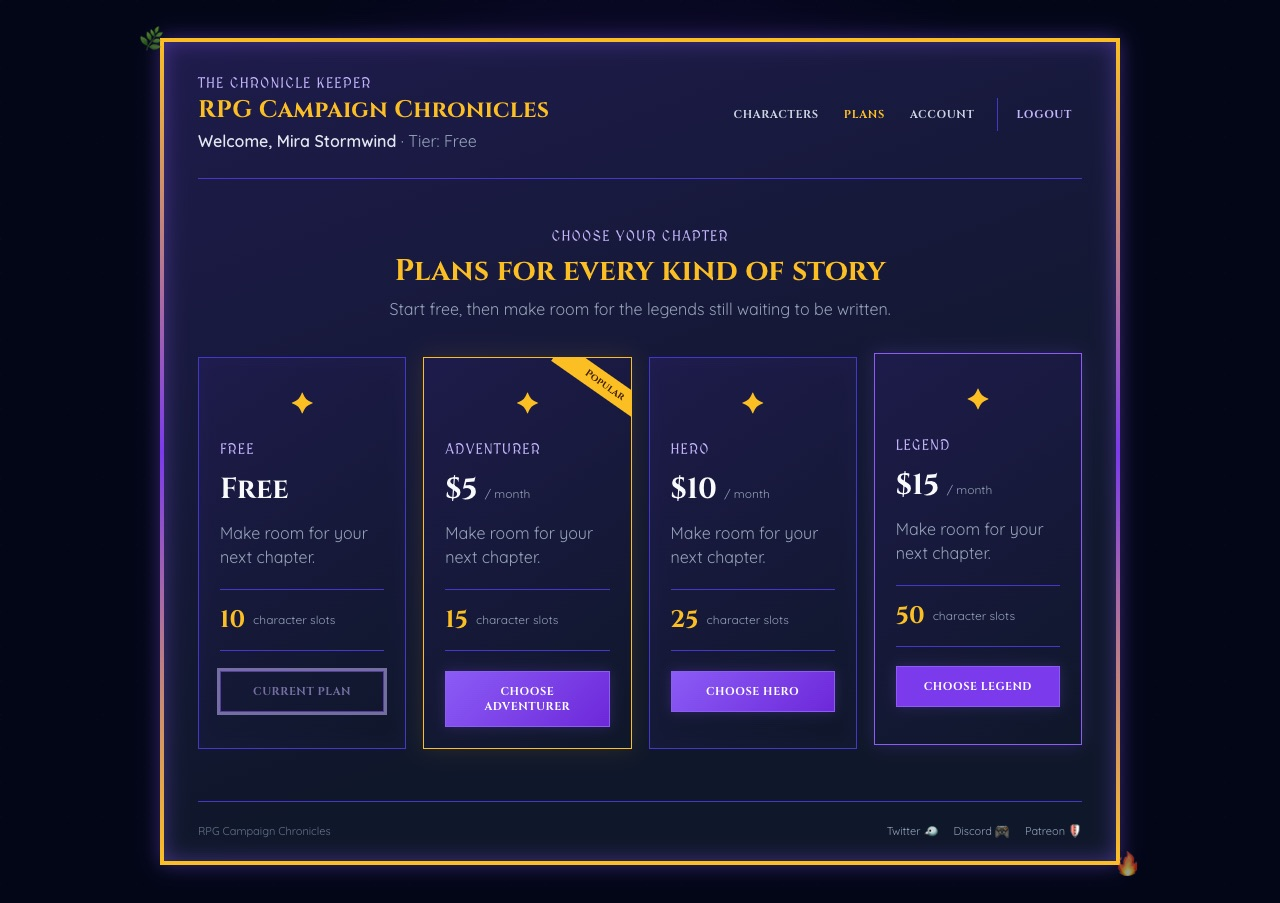
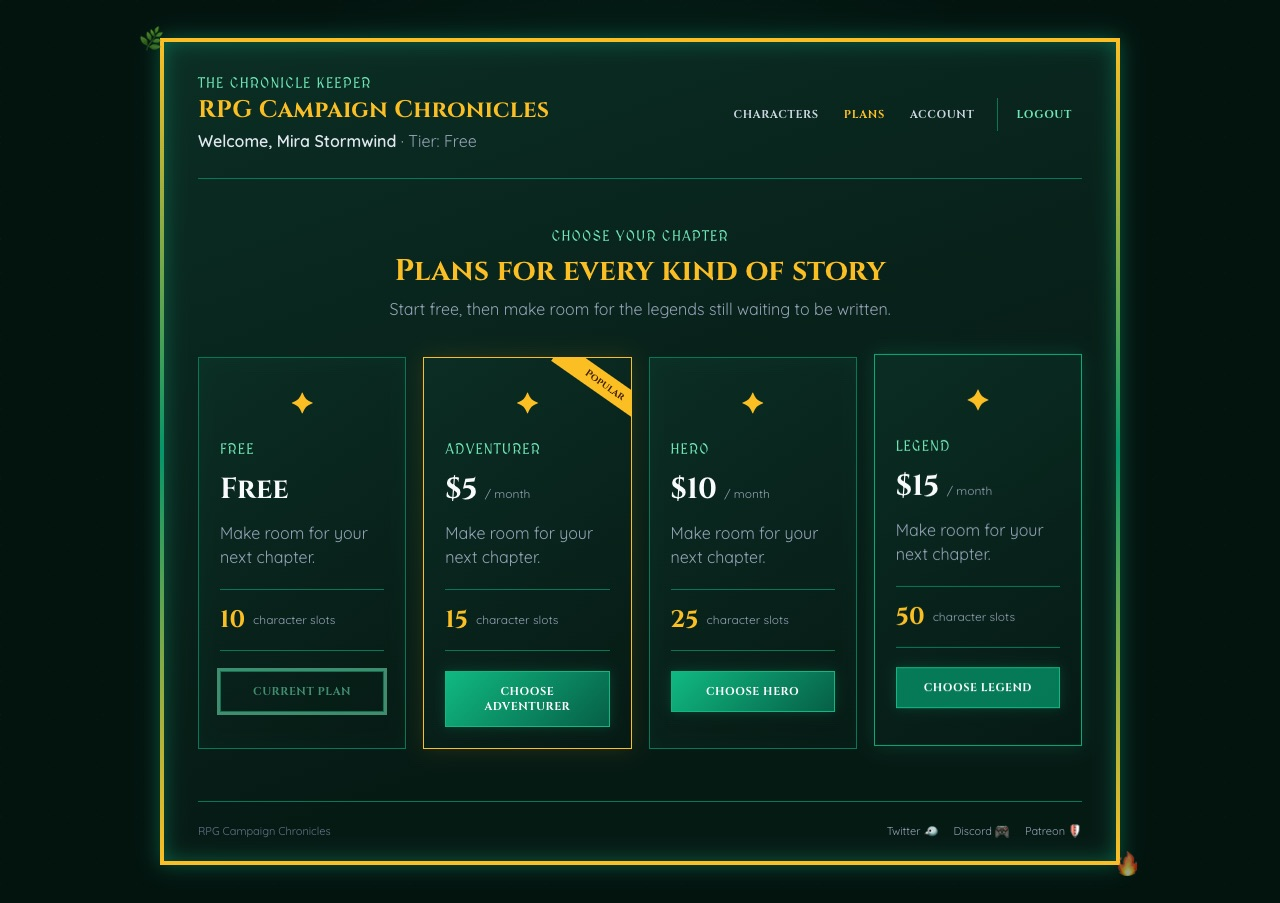
v3: emerald color theme so it's distinguishable from v1 and v2; style the attribute rows bolt left unstyled
palette swapped one-for-one in style.css (gold, reds, greys unchanged); added .inline-record/.inline-add/.record-actions.
screenshots refreshed; readme, writeup and dev-log updated.

diff --git a/week8/version3-vue-bolt/src/style.css b/week8/version3-vue-bolt/src/style.css
@@ -1,8 +1,9 @@
+/* manual change (2026-11-15): purple/indigo palette swapped for an emerald one so v3 is easy to tell apart from v1 (purple) and v2 (crimson). gold, reds and greys unchanged. */
 @import url('https://fonts.googleapis.com/css2?family=Cinzel:wght@700&family=MedievalSharp&family=Quicksand:wght@400;500;600;700&display=swap');
 @tailwind base;
 @tailwind components;
 @tailwind utilities;
-:root{font-family:'Quicksand',sans-serif;color:#f8fafc;background:#020617;font-synthesis:none;text-rendering:optimizeLegibility;-webkit-font-smoothing:antialiased;--gold:#fbbf24;--violet:#8b5cf6;--muted:#94a3b8;--card:#1e1b4b}*{box-sizing:border-box}body{margin:0;min-width:320px;min-height:100vh;background-color:#020617;background-image:linear-gradient(135deg,rgba(139,92,246,.055) 1px,transparent 1px),linear-gradient(45deg,rgba(139,92,246,.035) 1px,transparent 1px),radial-gradient(circle at 50% 30%,rgba(91,33,182,.2),transparent 46%);background-size:34px 34px,48px 48px,100% 100%;line-height:1.5}button,input,textarea{font:inherit}button{cursor:pointer}button:disabled{cursor:not-allowed;opacity:.55}.app-shell{padding:38px 16px;min-height:100vh}.frame{position:relative;max-width:960px;margin:auto;padding:0 34px;background:linear-gradient(160deg,#1e1b4b 0%,#0f172a 72%);border:4px solid transparent;border-image:linear-gradient(180deg,#fbbf24,#7c3aed,#fbbf24) 1;box-shadow:0 0 20px rgba(139,92,246,.4),inset 0 0 20px rgba(139,92,246,.4);min-height:calc(100vh - 76px)}.corner-mark{position:absolute;z-index:2;font-size:25px;opacity:.6}.corner-top{left:-25px;top:-22px}.corner-bottom{right:-24px;bottom:-22px}.site-header{display:flex;justify-content:space-between;gap:24px;padding:34px 0 25px;border-bottom:1px solid #4338ca}.site-header h1{margin:4px 0 4px;font:700 24px/1.2 Cinzel,serif;color:var(--gold);letter-spacing:.01em}.eyebrow{font:14px MedievalSharp,cursive;letter-spacing:.08em;color:#c4b5fd;text-transform:uppercase}.welcome{margin:0;color:#e2e8f0;font-weight:600}.welcome span{color:var(--muted);font-weight:400}nav{display:flex;align-items:center;gap:5px;flex-wrap:wrap;justify-content:flex-end}nav button,.back-link,.tabs button{border:0;background:transparent;color:#cbd5e1;padding:9px 10px;font:700 11px Cinzel,serif;text-transform:uppercase;letter-spacing:.06em;transition:.2s}nav button:hover,nav button.active,.tabs button.active{color:var(--gold)}nav .logout{border-left:1px solid #4338ca;margin-left:8px;padding-left:18px;color:#c4b5fd}.page{padding:40px 0 52px}.page-heading,.profile-head,.section-heading{display:flex;align-items:center;justify-content:space-between;gap:20px}.page h2,.center-heading h2,.form-page h2,.profile-head h2,.auth-card h2,.modal h2{font:700 30px/1.2 Cinzel,serif;color:var(--gold);margin:8px 0}.muted{color:var(--muted);margin:6px 0}.primary,.outline,.danger{border:1px solid var(--violet);padding:12px 16px;color:#fff;background:linear-gradient(135deg,#8b5cf6,#6d28d9);font:700 11px Cinzel,serif;letter-spacing:.05em;text-transform:uppercase;transition:.25s;box-shadow:0 0 12px rgba(139,92,246,.22)}.primary:hover{background:#7c3aed;transform:translateY(-1px)}.outline{background:transparent;color:#c4b5fd;box-shadow:none}.outline:hover{border-color:var(--gold);color:var(--gold)}.full{width:100%}.count-pill{font:700 12px Quicksand,sans-serif;border:1px solid #4338ca;padding:6px 9px;border-radius:99px;color:#c4b5fd;vertical-align:middle;white-space:nowrap}.notice{margin:18px 0 0;padding:12px 14px;background:rgba(34,197,94,.1);border:1px solid rgba(34,197,94,.35);color:#bbf7d0;font-size:13px}.notice button{float:right;border:0;background:none;color:inherit;font-size:18px}.warning{margin:24px 0;padding:14px 17px;background:rgba(251,191,36,.08);border-left:3px solid var(--gold);color:#fde68a;font-size:13px}.warning button,.text-link{border:0;background:none;color:var(--gold);font-weight:700;padding:0;text-decoration:underline}.character-grid,.plans-grid{display:grid;grid-template-columns:repeat(3,1fr);gap:17px;margin-top:28px}.character-card,.plan-card,.detail-card,.auth-card{border:1px solid #4338ca;background:linear-gradient(145deg,rgba(30,27,75,.94),rgba(15,23,42,.95));padding:21px;box-shadow:inset 0 0 20px rgba(67,56,202,.08);transition:.25s}.character-card:hover,.plan-card:hover{transform:translateY(-4px);border-color:#8b5cf6;box-shadow:0 0 18px rgba(139,92,246,.2)}.card-top{display:flex;justify-content:space-between}.level{color:#fbbf24;font:12px MedievalSharp}.card-menu{color:#8b5cf6}.avatar{width:52px;height:52px;border:1px solid #fbbf24;color:#fbbf24;display:grid;place-items:center;font:700 22px Cinzel,serif;border-radius:50%;margin:22px auto 14px;background:radial-gradient(circle,rgba(139,92,246,.25),transparent 70%)}.avatar.large{width:76px;height:76px;margin:0}.character-card h3{text-align:center;color:#f8fafc;font:700 17px Cinzel;margin:0}.species{text-align:center;color:#c4b5fd;font-size:13px}.species span{color:#64748b;padding:0 4px}.health-row{display:flex;justify-content:space-between;margin-top:20px;color:var(--muted);font-size:11px;text-transform:uppercase}.health-row strong{color:#f8fafc}.health-row small{color:var(--muted);font-weight:400}.health-track,.usage-track,.xp-track{height:5px;background:#0f172a;margin:8px 0 19px}.health-track i,.usage-track i,.xp-track i{display:block;height:100%;background:linear-gradient(90deg,#8b5cf6,#fbbf24);box-shadow:0 0 8px #8b5cf6}.card-actions{display:flex;gap:8px;border-top:1px solid rgba(67,56,202,.5);padding-top:15px}.card-actions button{border:0;background:none;color:#c4b5fd;font-size:11px;font-weight:700;padding:0}.card-actions button:hover{color:#fbbf24}.danger-text{color:#f87171!important}.center-heading{text-align:center;max-width:560px;margin:10px auto 36px}.plans-grid{grid-template-columns:repeat(4,1fr);margin-top:0}.plan-card{position:relative;overflow:hidden}.plan-card.featured{border-color:var(--gold);box-shadow:0 0 22px rgba(251,191,36,.12)}.ribbon{position:absolute;top:16px;right:-32px;transform:rotate(35deg);background:var(--gold);color:#422006;padding:4px 35px;font:700 10px Cinzel}.plan-glyph{text-align:center;color:var(--gold);font-size:29px;margin:2px 0 18px}.plan-card h3{font:700 29px Cinzel;margin:12px 0;color:#f8fafc}.plan-card h3 small{font:12px Quicksand;color:var(--muted);font-weight:400}.plan-limit{border-top:1px solid #4338ca;border-bottom:1px solid #4338ca;padding:14px 0;margin:20px 0;display:flex;align-items:center;gap:8px}.plan-limit strong{font:700 24px Cinzel;color:var(--gold)}.plan-limit span{color:var(--muted);font-size:12px}.auth-layout{min-height:calc(100vh - 160px);display:grid;grid-template-columns:1.15fr .85fr;align-items:center;gap:45px;padding:45px 0}.auth-art{padding:30px 0}.sigil{color:var(--gold);font-size:75px;text-shadow:0 0 26px rgba(251,191,36,.6);line-height:1}.auth-art h2{font:700 50px/1.1 Cinzel;margin:17px 0;color:#f8fafc}.auth-art h2 em{font-style:normal;color:var(--gold)}.auth-art>p:not(.eyebrow){color:var(--muted);max-width:350px}.constellation{color:#8b5cf6;letter-spacing:12px;margin-top:40px}.auth-card h2{font-size:26px}.auth-card{padding:29px}.auth-card label,.character-form label{display:block;color:#cbd5e1;font-size:12px;font-weight:700;margin:18px 0}.auth-card input,.character-form input,.character-form textarea,.attribute-row input{display:block;width:100%;margin-top:7px;background:#0f172a;border:1px solid #4338ca;color:#f8fafc;padding:12px 13px;outline:0}.auth-card input:focus,.character-form input:focus,.character-form textarea:focus{border-color:#a78bfa;box-shadow:0 0 0 2px rgba(139,92,246,.12)}.switch{text-align:center;color:var(--muted);font-size:12px}.switch button{border:0;background:none;color:var(--gold);font-weight:700}.form-page{max-width:730px;margin:auto}.back-link{padding-left:0;color:#a78bfa}.character-form{margin-top:30px}.form-section{border-top:1px solid #4338ca;padding:22px 0}.form-section h3,.detail-card h3,.wide-detail>h3{color:#f8fafc;font:700 16px Cinzel;margin:0 0 15px}.form-grid{display:grid;grid-template-columns:repeat(2,1fr);gap:0 18px}.form-grid .wide{grid-column:1/-1}.character-form textarea{resize:vertical}.attribute-row{display:grid;grid-template-columns:1fr 1fr 36px;gap:9px;margin:9px 0}.attribute-row input{margin:0}.attribute-row button,.icon-button{background:none;border:0;color:#f87171;font-size:20px}.attribute-actions{display:flex;gap:10px;margin-top:12px}.small-button{background:transparent;border:1px solid #4338ca;color:#c4b5fd;padding:8px 10px;font-size:11px}.gold-button{color:var(--gold);border-color:#a16207}.profile-head{justify-content:flex-start;padding-bottom:25px}.profile-head>div:nth-child(2){flex:1}.profile-head h2{margin:3px 0}.profile-head .species{text-align:left;margin:0}.tabs{display:flex;gap:19px;border-bottom:1px solid #4338ca}.tabs button{padding:14px 3px;position:relative}.tabs button.active:after{content:'';position:absolute;height:2px;background:var(--gold);bottom:-1px;left:0;right:0}.tabs span{font-size:10px;background:#312e81;border-radius:50%;padding:3px 6px;margin-left:3px}.detail-grid,.account-grid{display:grid;grid-template-columns:repeat(2,1fr);gap:17px;margin-top:24px}.detail-card p{color:#cbd5e1;font-size:14px}.stat-line{display:flex;justify-content:space-between;padding:9px 0;border-bottom:1px solid rgba(67,56,202,.45);font-size:13px}.stat-line strong{color:var(--gold)}.detail-card .text-link{margin-top:15px}.stat-highlight>strong{font:700 25px Cinzel;color:#f8fafc;display:block;margin:17px 0 22px}.xp-track{margin:0 0 9px}.detail-card small{color:var(--muted)}.wide-detail{padding:23px;margin-top:24px;border:1px solid #4338ca}.section-heading h3{margin:6px 0 0}.item-row{display:flex;align-items:center;gap:14px;border-top:1px solid rgba(67,56,202,.5);padding:16px 0}.item-icon{color:var(--gold);font-size:20px}.item-row div:nth-child(2){flex:1}.item-row strong,.item-row small{display:block}.item-row small{color:var(--muted);margin-top:3px;font-size:12px}.quantity{color:var(--gold)}.journal-entry{display:grid;grid-template-columns:70px 1fr;gap:20px;border-top:1px solid rgba(67,56,202,.5);padding:22px 0}.journal-date{border-right:1px solid #4338ca;color:var(--gold)}.journal-date strong{font:700 27px Cinzel;display:block}.journal-date span{color:var(--muted);font-size:11px}.journal-entry h3{margin:5px 0}.journal-entry p{color:#cbd5e1;font-size:13px}.journal-meta{display:flex;gap:15px;color:var(--muted);font-size:11px}.plan-summary h3{color:var(--gold);font-size:24px}.usage-card{grid-column:1/-1}.usage-card .section-heading strong{color:#c4b5fd;font-size:13px}.usage-track{height:9px;margin:23px 0 12px}.empty{text-align:center;padding:70px 20px;border:1px dashed #4338ca;margin-top:28px}.empty-glyph{color:var(--gold);font-size:35px}.empty h3{font:700 19px Cinzel;color:#f8fafc}footer{border-top:1px solid #4338ca;padding:21px 0;color:#64748b;font-size:11px;display:flex;justify-content:space-between}footer a{color:#94a3b8;margin-left:16px;text-decoration:none}.modal-backdrop{position:fixed;inset:0;background:rgba(2,6,23,.82);display:grid;place-items:center;padding:20px;z-index:5}.modal{position:relative;max-width:410px;width:100%;background:linear-gradient(145deg,#1e1b4b,#0f172a);border:1px solid #8b5cf6;box-shadow:0 0 35px rgba(139,92,246,.35);padding:32px;text-align:center}.modal h2{font-size:23px}.modal-close{position:absolute;right:13px;top:9px;background:none;border:0;color:#94a3b8;font-size:22px}.modal .plan-glyph{margin:0 0 10px}.modal p{color:#fde68a;font-size:14px}.modal .muted{color:var(--muted)}.modal-actions{display:flex;gap:10px;margin-top:22px}.modal-actions>*{flex:1}.danger{background:transparent;border-color:#ef4444;color:#fca5a5}.danger-icon{margin:auto;border:1px solid #ef4444;color:#f87171;width:35px;height:35px;border-radius:50%;display:grid;place-items:center;font:bold 20px Cinzel}.modal-form{text-align:left;max-height:90vh;overflow-y:auto}.modal-form label{display:block;color:#cbd5e1;font-size:12px;font-weight:700;margin:14px 0}.modal-form input,.modal-form textarea,.account-input{display:block;width:100%;margin-top:7px;background:#0f172a;border:1px solid #4338ca;color:#f8fafc;padding:12px 13px;outline:0}.account-input{margin:12px 0}.account-actions{display:flex;gap:10px;align-items:center;margin-top:15px}.saved-message{color:#bbf7d0;font-size:12px}.config-screen{text-align:center;max-width:520px;margin:0 auto;padding:150px 0}.config-screen h1{font:700 28px Cinzel;color:var(--gold);margin:15px 0}.config-screen p{color:var(--muted);line-height:1.8}.config-screen strong{color:#f8fafc}.nav-link,nav a{color:#cbd5e1;text-decoration:none;padding:9px 10px;font:700 11px Cinzel,serif;text-transform:uppercase;letter-spacing:.06em;transition:.2s}nav a:hover,nav a.active{color:var(--gold)}.card-actions a{border:0;background:none;color:#c4b5fd;font-size:11px;font-weight:700;padding:0;text-decoration:none}.card-actions a:hover{color:var(--gold)}.form-error,.field-error{color:#fca5a5;font-size:12px;margin:10px 0}.field-error{display:block;margin-top:5px}.disabled{pointer-events:none;opacity:.55}.config-screen .sigil{margin:auto}
+:root{font-family:'Quicksand',sans-serif;color:#f8fafc;background:#03140f;font-synthesis:none;text-rendering:optimizeLegibility;-webkit-font-smoothing:antialiased;--gold:#fbbf24;--emerald:#10b981;--muted:#94a3b8;--card:#0b2e24}*{box-sizing:border-box}body{margin:0;min-width:320px;min-height:100vh;background-color:#03140f;background-image:linear-gradient(135deg,rgba(16,185,129,.055) 1px,transparent 1px),linear-gradient(45deg,rgba(16,185,129,.035) 1px,transparent 1px),radial-gradient(circle at 50% 30%,rgba(6,95,70,.2),transparent 46%);background-size:34px 34px,48px 48px,100% 100%;line-height:1.5}button,input,textarea{font:inherit}button{cursor:pointer}button:disabled{cursor:not-allowed;opacity:.55}.app-shell{padding:38px 16px;min-height:100vh}.frame{position:relative;max-width:960px;margin:auto;padding:0 34px;background:linear-gradient(160deg,#0b2e24 0%,#061a14 72%);border:4px solid transparent;border-image:linear-gradient(180deg,#fbbf24,#059669,#fbbf24) 1;box-shadow:0 0 20px rgba(16,185,129,.4),inset 0 0 20px rgba(16,185,129,.4);min-height:calc(100vh - 76px)}.corner-mark{position:absolute;z-index:2;font-size:25px;opacity:.6}.corner-top{left:-25px;top:-22px}.corner-bottom{right:-24px;bottom:-22px}.site-header{display:flex;justify-content:space-between;gap:24px;padding:34px 0 25px;border-bottom:1px solid #047857}.site-header h1{margin:4px 0 4px;font:700 24px/1.2 Cinzel,serif;color:var(--gold);letter-spacing:.01em}.eyebrow{font:14px MedievalSharp,cursive;letter-spacing:.08em;color:#6ee7b7;text-transform:uppercase}.welcome{margin:0;color:#e2e8f0;font-weight:600}.welcome span{color:var(--muted);font-weight:400}nav{display:flex;align-items:center;gap:5px;flex-wrap:wrap;justify-content:flex-end}nav button,.back-link,.tabs button{border:0;background:transparent;color:#cbd5e1;padding:9px 10px;font:700 11px Cinzel,serif;text-transform:uppercase;letter-spacing:.06em;transition:.2s}nav button:hover,nav button.active,.tabs button.active{color:var(--gold)}nav .logout{border-left:1px solid #047857;margin-left:8px;padding-left:18px;color:#6ee7b7}.page{padding:40px 0 52px}.page-heading,.profile-head,.section-heading{display:flex;align-items:center;justify-content:space-between;gap:20px}.page h2,.center-heading h2,.form-page h2,.profile-head h2,.auth-card h2,.modal h2{font:700 30px/1.2 Cinzel,serif;color:var(--gold);margin:8px 0}.muted{color:var(--muted);margin:6px 0}.primary,.outline,.danger{border:1px solid var(--emerald);padding:12px 16px;color:#fff;background:linear-gradient(135deg,#10b981,#065f46);font:700 11px Cinzel,serif;letter-spacing:.05em;text-transform:uppercase;transition:.25s;box-shadow:0 0 12px rgba(16,185,129,.22)}.primary:hover{background:#059669;transform:translateY(-1px)}.outline{background:transparent;color:#6ee7b7;box-shadow:none}.outline:hover{border-color:var(--gold);color:var(--gold)}.full{width:100%}.count-pill{font:700 12px Quicksand,sans-serif;border:1px solid #047857;padding:6px 9px;border-radius:99px;color:#6ee7b7;vertical-align:middle;white-space:nowrap}.notice{margin:18px 0 0;padding:12px 14px;background:rgba(34,197,94,.1);border:1px solid rgba(34,197,94,.35);color:#bbf7d0;font-size:13px}.notice button{float:right;border:0;background:none;color:inherit;font-size:18px}.warning{margin:24px 0;padding:14px 17px;background:rgba(251,191,36,.08);border-left:3px solid var(--gold);color:#fde68a;font-size:13px}.warning button,.text-link{border:0;background:none;color:var(--gold);font-weight:700;padding:0;text-decoration:underline}.character-grid,.plans-grid{display:grid;grid-template-columns:repeat(3,1fr);gap:17px;margin-top:28px}.character-card,.plan-card,.detail-card,.auth-card{border:1px solid #047857;background:linear-gradient(145deg,rgba(11,46,36,.94),rgba(6,26,20,.95));padding:21px;box-shadow:inset 0 0 20px rgba(4,120,87,.08);transition:.25s}.character-card:hover,.plan-card:hover{transform:translateY(-4px);border-color:#10b981;box-shadow:0 0 18px rgba(16,185,129,.2)}.card-top{display:flex;justify-content:space-between}.level{color:#fbbf24;font:12px MedievalSharp}.card-menu{color:#10b981}.avatar{width:52px;height:52px;border:1px solid #fbbf24;color:#fbbf24;display:grid;place-items:center;font:700 22px Cinzel,serif;border-radius:50%;margin:22px auto 14px;background:radial-gradient(circle,rgba(16,185,129,.25),transparent 70%)}.avatar.large{width:76px;height:76px;margin:0}.character-card h3{text-align:center;color:#f8fafc;font:700 17px Cinzel;margin:0}.species{text-align:center;color:#6ee7b7;font-size:13px}.species span{color:#64748b;padding:0 4px}.health-row{display:flex;justify-content:space-between;margin-top:20px;color:var(--muted);font-size:11px;text-transform:uppercase}.health-row strong{color:#f8fafc}.health-row small{color:var(--muted);font-weight:400}.health-track,.usage-track,.xp-track{height:5px;background:#061a14;margin:8px 0 19px}.health-track i,.usage-track i,.xp-track i{display:block;height:100%;background:linear-gradient(90deg,#10b981,#fbbf24);box-shadow:0 0 8px #10b981}.card-actions{display:flex;gap:8px;border-top:1px solid rgba(4,120,87,.5);padding-top:15px}.card-actions button{border:0;background:none;color:#6ee7b7;font-size:11px;font-weight:700;padding:0}.card-actions button:hover{color:#fbbf24}.danger-text{color:#f87171!important}.center-heading{text-align:center;max-width:560px;margin:10px auto 36px}.plans-grid{grid-template-columns:repeat(4,1fr);margin-top:0}.plan-card{position:relative;overflow:hidden}.plan-card.featured{border-color:var(--gold);box-shadow:0 0 22px rgba(251,191,36,.12)}.ribbon{position:absolute;top:16px;right:-32px;transform:rotate(35deg);background:var(--gold);color:#422006;padding:4px 35px;font:700 10px Cinzel}.plan-glyph{text-align:center;color:var(--gold);font-size:29px;margin:2px 0 18px}.plan-card h3{font:700 29px Cinzel;margin:12px 0;color:#f8fafc}.plan-card h3 small{font:12px Quicksand;color:var(--muted);font-weight:400}.plan-limit{border-top:1px solid #047857;border-bottom:1px solid #047857;padding:14px 0;margin:20px 0;display:flex;align-items:center;gap:8px}.plan-limit strong{font:700 24px Cinzel;color:var(--gold)}.plan-limit span{color:var(--muted);font-size:12px}.auth-layout{min-height:calc(100vh - 160px);display:grid;grid-template-columns:1.15fr .85fr;align-items:center;gap:45px;padding:45px 0}.auth-art{padding:30px 0}.sigil{color:var(--gold);font-size:75px;text-shadow:0 0 26px rgba(251,191,36,.6);line-height:1}.auth-art h2{font:700 50px/1.1 Cinzel;margin:17px 0;color:#f8fafc}.auth-art h2 em{font-style:normal;color:var(--gold)}.auth-art>p:not(.eyebrow){color:var(--muted);max-width:350px}.constellation{color:#10b981;letter-spacing:12px;margin-top:40px}.auth-card h2{font-size:26px}.auth-card{padding:29px}.auth-card label,.character-form label{display:block;color:#cbd5e1;font-size:12px;font-weight:700;margin:18px 0}.auth-card input,.character-form input,.character-form textarea,.attribute-row input{display:block;width:100%;margin-top:7px;background:#061a14;border:1px solid #047857;color:#f8fafc;padding:12px 13px;outline:0}.auth-card input:focus,.character-form input:focus,.character-form textarea:focus{border-color:#34d399;box-shadow:0 0 0 2px rgba(16,185,129,.12)}.switch{text-align:center;color:var(--muted);font-size:12px}.switch button{border:0;background:none;color:var(--gold);font-weight:700}.form-page{max-width:730px;margin:auto}.back-link{padding-left:0;color:#34d399}.character-form{margin-top:30px}.form-section{border-top:1px solid #047857;padding:22px 0}.form-section h3,.detail-card h3,.wide-detail>h3{color:#f8fafc;font:700 16px Cinzel;margin:0 0 15px}.form-grid{display:grid;grid-template-columns:repeat(2,1fr);gap:0 18px}.form-grid .wide{grid-column:1/-1}.character-form textarea{resize:vertical}.attribute-row{display:grid;grid-template-columns:1fr 1fr 36px;gap:9px;margin:9px 0}.attribute-row input{margin:0}.attribute-row button,.icon-button{background:none;border:0;color:#f87171;font-size:20px}.attribute-actions{display:flex;gap:10px;margin-top:12px}.small-button{background:transparent;border:1px solid #047857;color:#6ee7b7;padding:8px 10px;font-size:11px}.gold-button{color:var(--gold);border-color:#a16207}.profile-head{justify-content:flex-start;padding-bottom:25px}.profile-head>div:nth-child(2){flex:1}.profile-head h2{margin:3px 0}.profile-head .species{text-align:left;margin:0}.tabs{display:flex;gap:19px;border-bottom:1px solid #047857}.tabs button{padding:14px 3px;position:relative}.tabs button.active:after{content:'';position:absolute;height:2px;background:var(--gold);bottom:-1px;left:0;right:0}.tabs span{font-size:10px;background:#064e3b;border-radius:50%;padding:3px 6px;margin-left:3px}.detail-grid,.account-grid{display:grid;grid-template-columns:repeat(2,1fr);gap:17px;margin-top:24px}.detail-card p{color:#cbd5e1;font-size:14px}.stat-line{display:flex;justify-content:space-between;padding:9px 0;border-bottom:1px solid rgba(4,120,87,.45);font-size:13px}.stat-line strong{color:var(--gold)}.detail-card .text-link{margin-top:15px}.stat-highlight>strong{font:700 25px Cinzel;color:#f8fafc;display:block;margin:17px 0 22px}.xp-track{margin:0 0 9px}.detail-card small{color:var(--muted)}.wide-detail{padding:23px;margin-top:24px;border:1px solid #047857}.section-heading h3{margin:6px 0 0}.item-row{display:flex;align-items:center;gap:14px;border-top:1px solid rgba(4,120,87,.5);padding:16px 0}.item-icon{color:var(--gold);font-size:20px}.item-row div:nth-child(2){flex:1}.item-row strong,.item-row small{display:block}.item-row small{color:var(--muted);margin-top:3px;font-size:12px}.quantity{color:var(--gold)}.journal-entry{display:grid;grid-template-columns:70px 1fr;gap:20px;border-top:1px solid rgba(4,120,87,.5);padding:22px 0}.journal-date{border-right:1px solid #047857;color:var(--gold)}.journal-date strong{font:700 27px Cinzel;display:block}.journal-date span{color:var(--muted);font-size:11px}.journal-entry h3{margin:5px 0}.journal-entry p{color:#cbd5e1;font-size:13px}.journal-meta{display:flex;gap:15px;color:var(--muted);font-size:11px}.plan-summary h3{color:var(--gold);font-size:24px}.usage-card{grid-column:1/-1}.usage-card .section-heading strong{color:#6ee7b7;font-size:13px}.usage-track{height:9px;margin:23px 0 12px}.empty{text-align:center;padding:70px 20px;border:1px dashed #047857;margin-top:28px}.empty-glyph{color:var(--gold);font-size:35px}.empty h3{font:700 19px Cinzel;color:#f8fafc}footer{border-top:1px solid #047857;padding:21px 0;color:#64748b;font-size:11px;display:flex;justify-content:space-between}footer a{color:#94a3b8;margin-left:16px;text-decoration:none}.modal-backdrop{position:fixed;inset:0;background:rgba(1,10,7,.82);display:grid;place-items:center;padding:20px;z-index:5}.modal{position:relative;max-width:410px;width:100%;background:linear-gradient(145deg,#0b2e24,#061a14);border:1px solid #10b981;box-shadow:0 0 35px rgba(16,185,129,.35);padding:32px;text-align:center}.modal h2{font-size:23px}.modal-close{position:absolute;right:13px;top:9px;background:none;border:0;color:#94a3b8;font-size:22px}.modal .plan-glyph{margin:0 0 10px}.modal p{color:#fde68a;font-size:14px}.modal .muted{color:var(--muted)}.modal-actions{display:flex;gap:10px;margin-top:22px}.modal-actions>*{flex:1}.danger{background:transparent;border-color:#ef4444;color:#fca5a5}.danger-icon{margin:auto;border:1px solid #ef4444;color:#f87171;width:35px;height:35px;border-radius:50%;display:grid;place-items:center;font:bold 20px Cinzel}.modal-form{text-align:left;max-height:90vh;overflow-y:auto}.modal-form label{display:block;color:#cbd5e1;font-size:12px;font-weight:700;margin:14px 0}.modal-form input,.modal-form textarea,.account-input{display:block;width:100%;margin-top:7px;background:#061a14;border:1px solid #047857;color:#f8fafc;padding:12px 13px;outline:0}.account-input{margin:12px 0}.account-actions{display:flex;gap:10px;align-items:center;margin-top:15px}.saved-message{color:#bbf7d0;font-size:12px}.config-screen{text-align:center;max-width:520px;margin:0 auto;padding:150px 0}.config-screen h1{font:700 28px Cinzel;color:var(--gold);margin:15px 0}.config-screen p{color:var(--muted);line-height:1.8}.config-screen strong{color:#f8fafc}.nav-link,nav a{color:#cbd5e1;text-decoration:none;padding:9px 10px;font:700 11px Cinzel,serif;text-transform:uppercase;letter-spacing:.06em;transition:.2s}nav a:hover,nav a.active{color:var(--gold)}.card-actions a{border:0;background:none;color:#6ee7b7;font-size:11px;font-weight:700;padding:0;text-decoration:none}.card-actions a:hover{color:var(--gold)}.form-error,.field-error{color:#fca5a5;font-size:12px;margin:10px 0}.field-error{display:block;margin-top:5px}.disabled{pointer-events:none;opacity:.55}.config-screen .sigil{margin:auto}
 @media(max-width:760px){.app-shell{padding:16px 8px}.frame{padding:0 18px;min-height:calc(100vh - 32px)}.site-header{display:block}.site-header h1{font-size:20px}.site-header nav{justify-content:flex-start;margin-top:20px}.site-header nav .logout{margin-left:auto}.character-grid,.plans-grid{grid-template-columns:1fr}.page-heading,.profile-head{align-items:flex-start;flex-direction:column}.page-heading .primary{width:100%}.auth-layout{grid-template-columns:1fr;padding:22px 0;gap:20px}.auth-art{padding:10px 0}.auth-art h2{font-size:37px}.auth-card{padding:22px}.form-grid,.detail-grid,.account-grid{grid-template-columns:1fr}.usage-card{grid-column:auto}.profile-head{position:relative}.profile-head .outline{width:100%}.profile-head .avatar{margin:0}.tabs{gap:11px}.tabs button{font-size:10px}.journal-entry{grid-template-columns:55px 1fr;gap:12px}footer{display:block;text-align:center}footer div{margin-top:9px}footer a{margin:0 6px}.corner-mark{font-size:20px}.corner-top{left:-17px}.corner-bottom{right:-18px}}
 
 /* manual fix: on phones the corner 🔥 stuck out 18px past the screen edge, so the page scrolled sideways.
@@ -10,3 +11,18 @@
    and .app-shell clips anything that still overflows. */
 .app-shell{overflow-x:clip}
 @media(max-width:760px){.corner-top{left:-8px;top:-14px}.corner-bottom{right:-8px;bottom:-14px}}
+
+
+/* manual fix: bolt's CharacterDetailPage.vue uses .inline-record, .inline-add and .record-actions but never styled them,
+   so attribute rows ran together ("Sanity ShakenEditRemove") and the add inputs fell back to browser defaults. */
+.inline-record{display:flex;align-items:center;justify-content:space-between;gap:12px;padding:9px 0;border-bottom:1px solid rgba(4,120,87,.45);font-size:13px}
+.inline-record strong{color:#6ee7b7;margin-right:10px}
+.inline-record input{flex:1;min-width:0;margin:0}
+.inline-record>button,.record-actions button{border:0;background:none;padding:0;font-size:12px;font-weight:700}
+.record-actions{display:inline-flex;gap:14px;flex-shrink:0}
+.detail-card .record-actions .text-link,.detail-card .inline-record>.text-link{margin-top:0}
+.journal-meta .record-actions{margin-left:auto}
+.inline-add{display:grid;grid-template-columns:1fr 1fr auto;gap:9px;margin-top:14px;align-items:center}
+.inline-record input,.inline-add input{display:block;width:100%;background:#061a14;border:1px solid #047857;color:#f8fafc;padding:9px 11px;outline:0}
+.inline-record input:focus,.inline-add input:focus{border-color:#34d399}
+@media(max-width:760px){.inline-add{grid-template-columns:1fr 1fr}.inline-add .small-button{grid-column:1/-1}}

diff --git a/week8/version3-vue-bolt/README.md b/week8/version3-vue-bolt/README.md
@@ -130,6 +130,13 @@ All 13 checks pass. That script isn't part of this folder; see `../dev-log.md`.
 5. **Feature change (my request, 2026-11-15):** the create form starts with the six D&D attributes at 10, which the user can change,
    remove or add to (`CharacterEditPage.vue`). Existing characters with no attributes were backfilled once with
    `supabase/migrations/202611150001_backfill_dnd_defaults.sql`.
+6. **Unstyled attribute rows (found in the Phase 4 screenshots):** the custom-attribute rows ran together ("Sanity ShakenEditRemove"),
+   the add-attribute inputs fell back to browser defaults, and journal Edit/Delete links were squashed together. Root cause: Bolt's
+   `CharacterDetailPage.vue` uses the classes `inline-record`, `inline-add` and `record-actions`, but `style.css` never defined them.
+   Fix: added those rules at the end of `style.css`.
+7. **Color theme (my request, 2026-11-15):** V3 used the same purple/gold as V1, because Bolt was given V1's color tokens. Every
+   purple/indigo value in `style.css` was swapped for an emerald one, so V1 is purple, V2 crimson and V3 emerald. Gold, the reds and
+   the greys are unchanged, and so is the layout. Comment at the top of `style.css`.
 
 ## Known issues / limitations
 
@@ -139,5 +146,7 @@ All 13 checks pass. That script isn't part of this folder; see `../dev-log.md`.
 - Creating or editing a character and its attributes is not atomic: the character is saved first, then its attributes. If the second step fails, the page says so, but the character stays saved.
 - The 50-attribute limit isn't locked against simultaneous inserts, so parallel requests could slightly exceed it (unlike the plan limit).
 - Deleting an attribute uses the browser's `confirm()` dialog instead of the styled modal.
-- On the character profile, the custom-attribute rows and the Edit/Delete links on journal entries are unstyled ("Sanity ShakenEditRemove" runs together, and the add-attribute inputs show as a plain bar). Root cause: Bolt's markup in `CharacterDetailPage.vue` uses the classes `inline-record`, `inline-add` and `record-actions`, but `style.css` has no rules for them. Found in the Phase 4 screenshots (`docs/screenshots/profile-overview.jpg`). Everything still works; it only looks wrong.
+- On the character profile, editing an attribute also fills the "add attribute" inputs with the same text. Root cause: Bolt's
+  `CharacterDetailPage.vue` uses one `attributeDraft` object for both the add row and the row being edited, so clicking **+ Add**
+  mid-edit would add a copy. Found in the theme screenshots.
 - No password reset, login rate limiting beyond Supabase's defaults, or account deletion (same scope as V1/V2).

diff --git a/week8/dev-log.md b/week8/dev-log.md
@@ -149,3 +149,12 @@ Timestamps come from `date` on my machine (EDT).
 - Design problem: crimson main buttons would look like the red Delete buttons. Fix: Edit buttons are amber, and Delete/danger buttons are outlined red and fill only on hover.
 - First screenshots showed the dashboard character card still slate blue (`.char-card` was missed); added it. Checked by listing every remaining V1-palette color in both stylesheets.
 - Checked: full V2 flow (11/11), the build, phone width (no sideways scroll), and screenshots of the form, dashboard, profile, plans and delete dialog. Refreshed `version2-react-flask/docs/screenshots/`. V1 and V3 untouched.
+
+## 2026-11-15 17:30 EST: V3 gets an emerald color theme, and its unstyled rows are fixed
+- Request (me): change V3's colors as well (V3 used V1's purple/gold because Bolt was given V1's tokens). Chose "emerald forest", and also fixing the unstyled attribute rows.
+- V3's colors are hard-coded hex values throughout `style.css` (no variables), so I swapped them one for one: each purple/indigo value maps to an emerald one. Gold, the danger reds and the neutral greys are unchanged. Afterwards no purple/indigo values remain.
+- Added the missing `.inline-record`, `.inline-add` and `.record-actions` rules. The first screenshot showed each attribute's Edit sitting lower than its Remove, because Bolt's `.detail-card .text-link{margin-top:15px}` also applied there; overrode it. Measured afterwards: 0px offset.
+- Problem found (screenshots): **editing an attribute also fills the "add attribute" inputs.** Root cause: one shared `attributeDraft` object. Logged as a known issue; asking before fixing, since it's logic, not colors.
+- Checked and not a bug: right after a full reload, the header briefly shows the email until the profile loads. The display name is saved (read back from the database).
+- Problem along the way: V2's servers from the theme check were still running, so V3's Vite started on 5174 and the test hit V2 on 5173. Stopped them and re-ran.
+- Checked: V3 full flow (12/12), the build, phone width (no sideways scroll), and screenshots. Refreshed `version3-vue-bolt/docs/screenshots/`.

diff --git a/week8/writeup.md b/week8/writeup.md
@@ -192,8 +192,10 @@ a. Issues encountered per stack and how you resolved them:
     - RLS isolation, locked tables, CHECK constraints, cascade delete
   - Known issues left as-is, listed in the README:
     - empty stats show as 0
-    - the attribute and journal-action rows on the profile are unstyled (CSS classes Bolt never defined;
-      found in the Phase 4 screenshots)
+    - editing an attribute on the profile also fills the "add attribute" inputs (Bolt used one shared draft object)
+  - Later fixes and changes (my requests): styled the attribute rows and journal links, which were unstyled
+    because Bolt used CSS classes it never defined (found in the Phase 4 screenshots); and swapped V3's colors
+    from V1's purple to emerald, so all three versions look different.
     - attribute saves aren't atomic
     - deleting an attribute uses window.confirm
 
